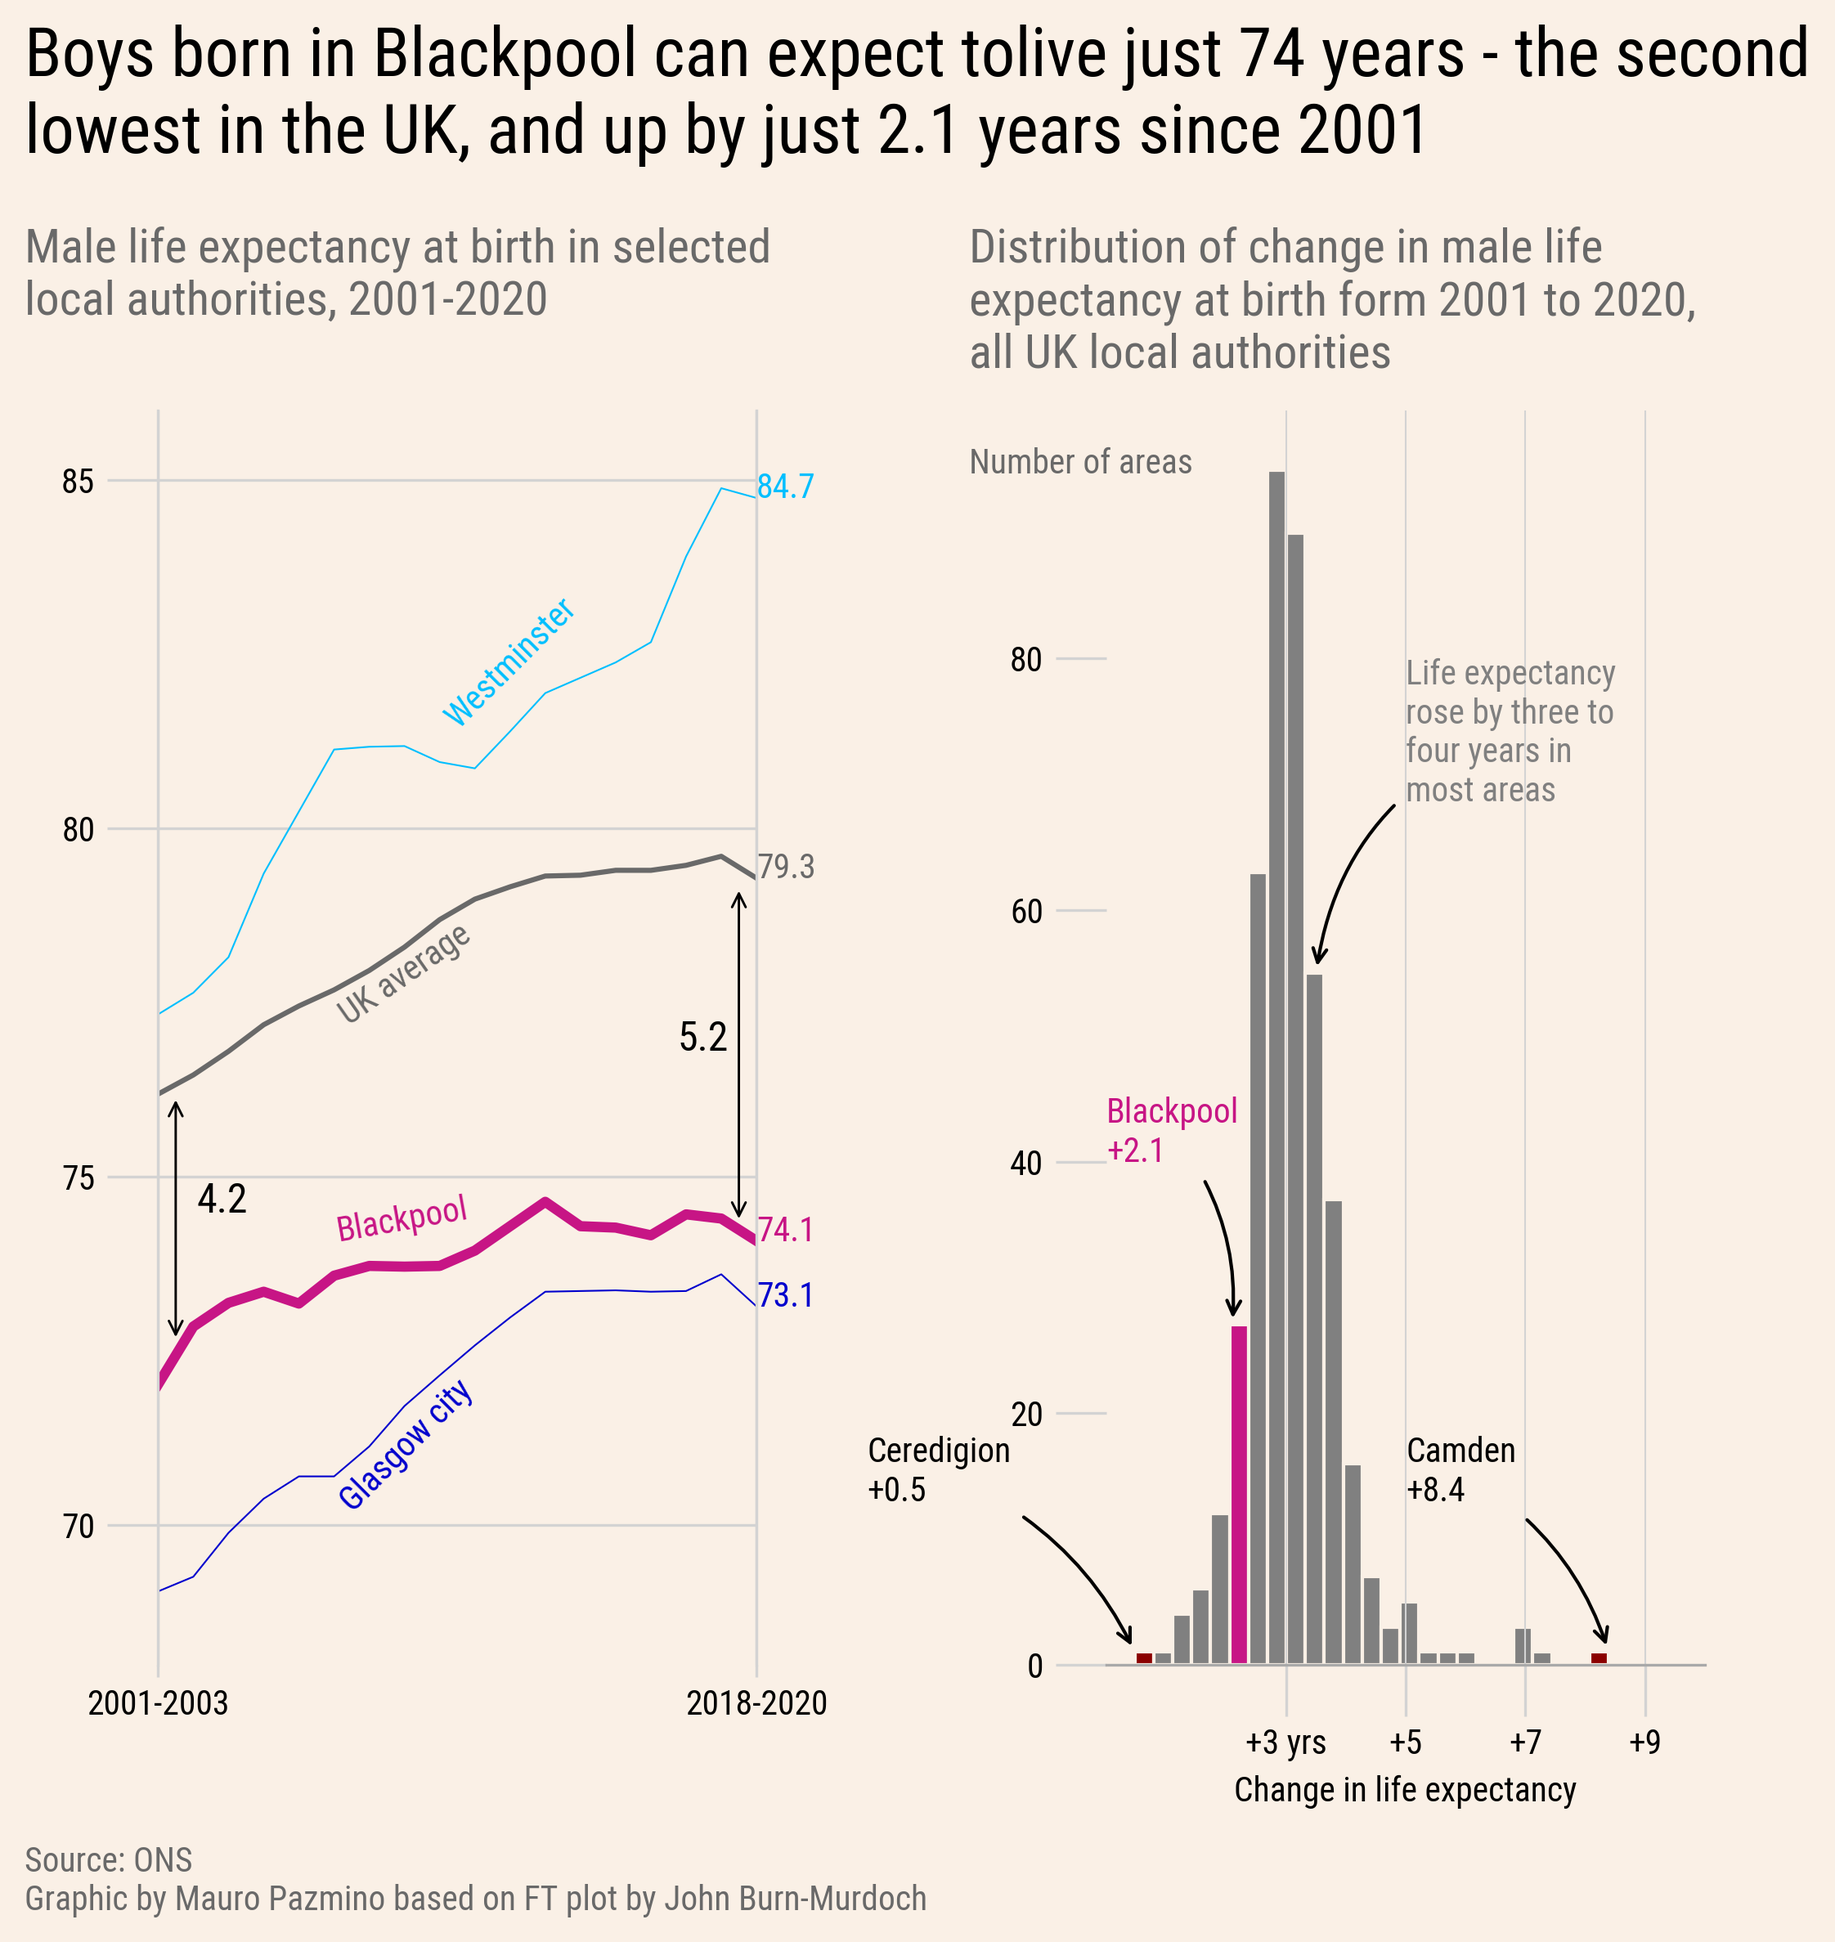
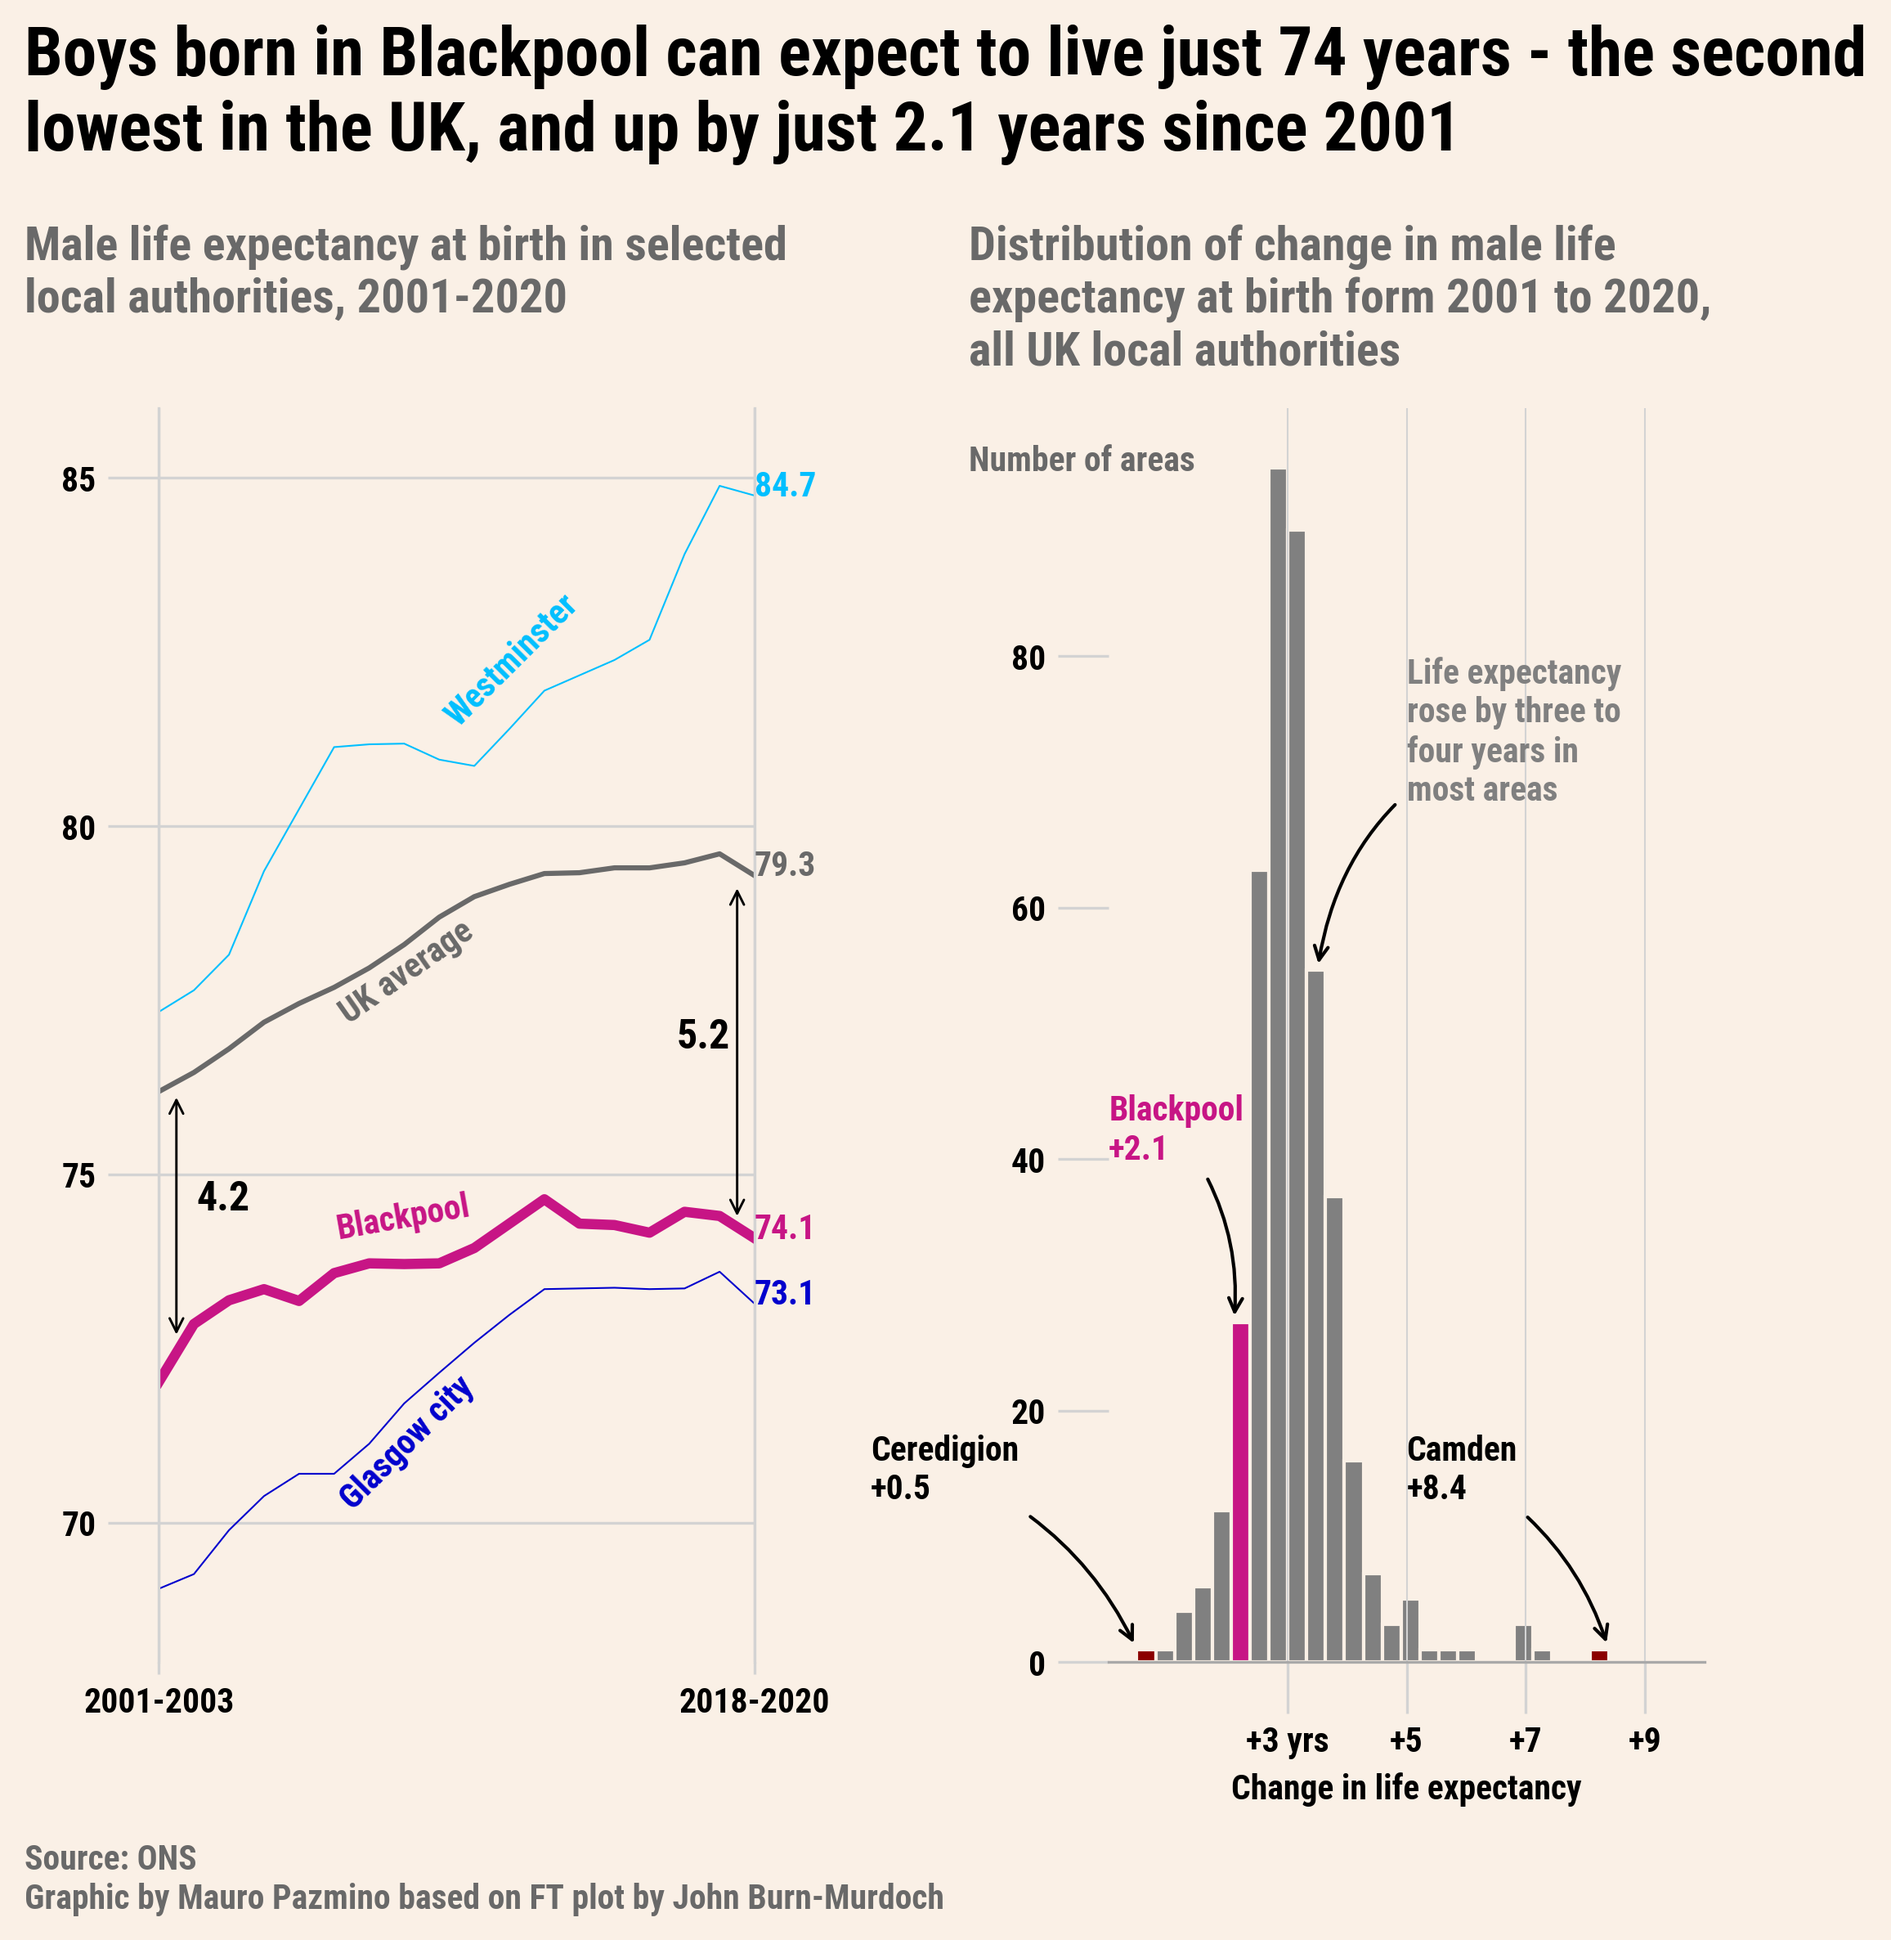
code changes

diff --git a/Life-expectancy/Life_expectancy_UK_FT.py b/Life-expectancy/Life_expectancy_UK_FT.py
@@ -9,7 +9,7 @@ from matplotlib import font_manager
 # unemployment
 
 df = pd.read_excel(
-    "../Life expectancy/Data/lebylapivot3.xlsx", sheet_name=2, skiprows=3
+    "./Life-expectancy/Data/lebylapivot3.xlsx", sheet_name=2, skiprows=3
 )
 
 df["Area name"] = df["Area name"].str.lower()
@@ -227,7 +227,7 @@ fig.text(
 fig.text(
     x=0,
     y=1.15,
-    s="Boys born in Blackpool can expect tolive just 74 years - the second\nlowest in the UK, and up by just 2.1 years since 2001",
+    s="Boys born in Blackpool can expect to live just 74 years - the second\nlowest in the UK, and up by just 2.1 years since 2001",
     ha="left",
     fontdict={"fontsize": 20, "family": font.name},
 )
@@ -336,5 +336,5 @@ fig.text(
 )
 
 fig.savefig(
-    "../Life expectancy/Life_expectancy_FT_style.png", dpi=300, bbox_inches="tight"
+    "./Life-expectancy/Life_expectancy_FT_style.png", dpi=300, bbox_inches="tight"
 )
